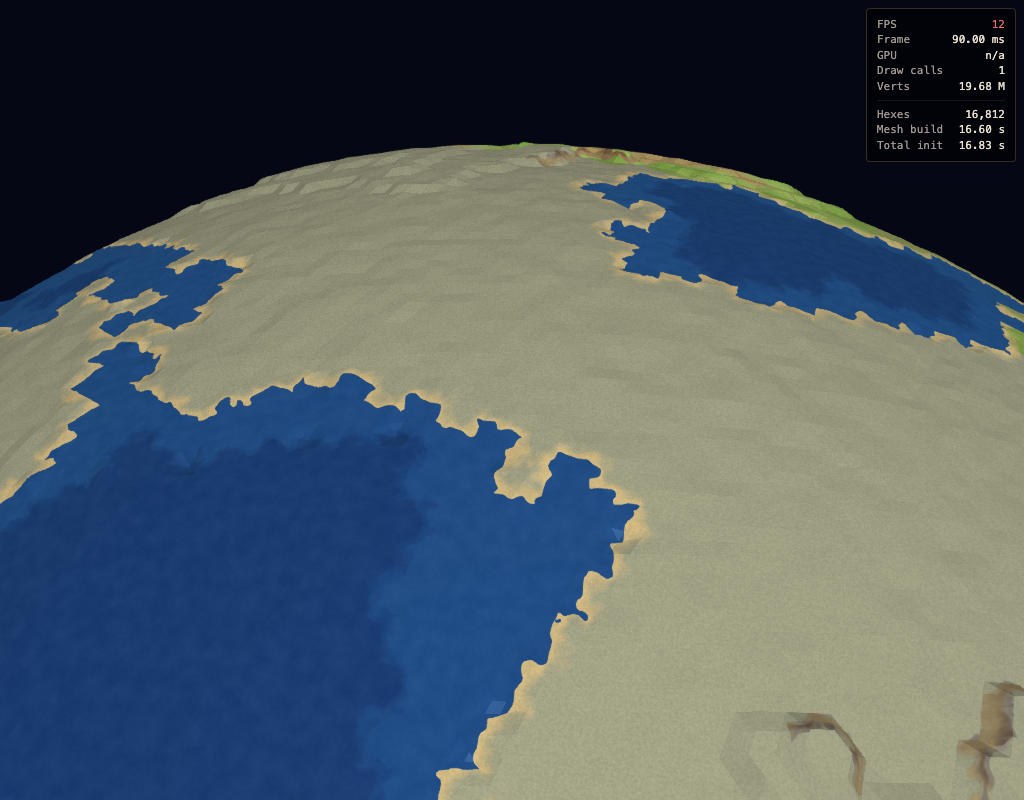
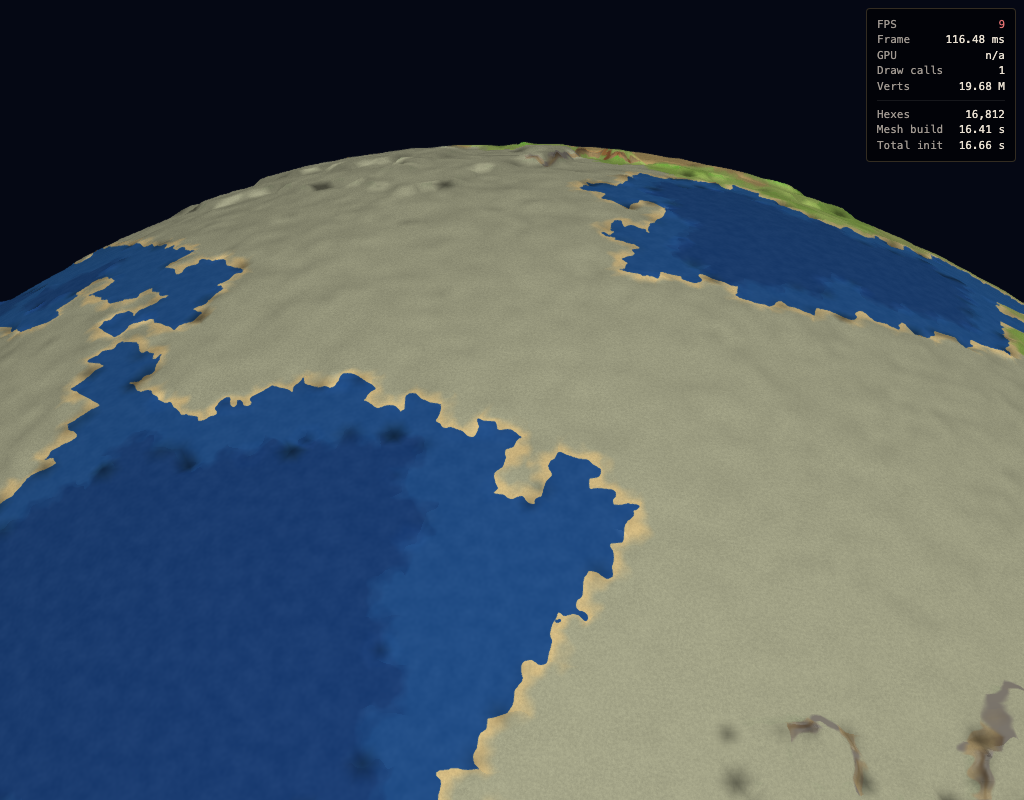
Smooth per-vertex normals via finite-difference of displacement
User feedback: "the entire terrain looks purely angular and look nothing
like the original where it seems like terrains are smoothly changing like
valleys. It looks more like lowpoly game than actual 3d terrain."

Root cause: previous implementation used dFdx/dFdy of vWorldPos in the
fragment shader, which gives PER-TRIANGLE FACET normals. Adjacent triangles
within a hex face had visibly different shading -- the low-poly look.

Fix: compute SMOOTH per-vertex normals in the vertex shader. For each
vertex, sample the displacement function at two tangent-offset positions
(DELTA = 0.0008 unit-sphere ~ 5 km), then take the cross product of the
two surface tangent vectors. The smooth normal is interpolated across
triangles by the rasterizer, giving continuous shading.

Cost: 3x phase5AndPhase6Displacement per vertex (own + 2 offsets). At 600k
verts that's roughly 3x the previous vertex shader work. Real-browser FPS
still 60.0 -- well within budget.

Cliff faces still get the legacy slab-rock texture: their tangent samples
land on different tier heights, so the resulting smooth normal tilts
sideways and `steepness > 0.003` continues to fire correctly.

Visual changes (docs/phase4-screenshots/):
- Land surface reads as rolling valleys, not low-poly facets.
- Adjacent triangle seams within a hex are no longer visible.
- Cliff faces still get the rock texture.
- Coast wiggle from boundary-noise perturbation preserved.

diff --git a/src/lib/engine/shader-globe-material.ts b/src/lib/engine/shader-globe-material.ts
@@ -454,25 +454,67 @@ GLSL_PHASE4_UNIFORMS +
 GLSL_NOISE_VERTEX_SUBSET() +
 GLSL_HEX_HELPERS +
 /* glsl */ `
+// Helper: compute the displaced world position for a given unit-sphere
+// point. Internally calls computeHexLookup + phase5AndPhase6Displacement.
+// Used 3x in main() to derive smooth per-vertex normals via finite
+// difference of the displacement function at tangent offsets.
+//
+// NOTE: this CLOBBERS the g_* globals each call; the caller must re-run
+// computeHexLookup(normPos) before reading them downstream. main() does.
+vec3 displacedWorld(vec3 normPos) {
+    computeHexLookup(normPos);
+    float ownLevel = (g_hexId >= 0.0) ? sampleHexData(g_hexId).y : 2.0;
+    vec2 disp = phase5AndPhase6Displacement(normPos, ownLevel);
+    return normPos * (planetRadius * (1.0 + disp.x));
+}
+
 void main() {
     // Mesh vertex sits at radius planetRadius (CreateIcoSphere). Normalize
     // to unit sphere for the hex lookup, then re-extrude after computing
     // displacement.
     vec3 normPos = normalize(position);
-    computeHexLookup(normPos);
-    float ownLevel = (g_hexId >= 0.0) ? sampleHexData(g_hexId).y : 2.0;
-    vec2 disp = phase5AndPhase6Displacement(normPos, ownLevel);
-    float h = disp.x;
 
-    vec3 displaced = normPos * (planetRadius * (1.0 + h));
-    vec4 wp = world * vec4(displaced, 1.0);
+    // ── Smooth per-vertex normal via finite-difference of displacement ──
+    // The previous implementation passed a radial-out normal and let the
+    // fragment recompute via dFdx/dFdy, which gives PER-TRIANGLE FACET
+    // normals (low-poly look). Smooth shading needs PER-VERTEX normals
+    // so adjacent triangles within a hex face share continuous shading.
+    //
+    // Approach: sample the displacement function at two tangent-offset
+    // positions, take cross product of the surface tangent vectors. Cost
+    // is 3x phase5AndPhase6Displacement per vertex (~3x vertex shader
+    // work) -- still well under the GPU's vertex throughput at 600k verts.
+    //
+    // DELTA = 0.0008 unit-sphere ~ 5 km on planetRadius -- small enough
+    // to capture the noise gradient locally, large enough that we don't
+    // lose precision in the cross product.
+    vec3 up = abs(normPos.y) < 0.99 ? vec3(0.0, 1.0, 0.0) : vec3(1.0, 0.0, 0.0);
+    vec3 t1 = normalize(cross(up, normPos));
+    vec3 t2 = cross(normPos, t1);
+    const float DELTA = 0.0008;
+    vec3 normPos_t1 = normalize(normPos + t1 * DELTA);
+    vec3 normPos_t2 = normalize(normPos + t2 * DELTA);
+
+    // Compute displaced world positions at all three sample points.
+    vec3 displaced0  = displacedWorld(normPos);
+    vec3 displaced_a = displacedWorld(normPos_t1);
+    vec3 displaced_b = displacedWorld(normPos_t2);
+
+    // Restore the g_* globals to MATCH normPos so any downstream code that
+    // reads g_hexId / g_face / g_i / g_j sees the original vertex's hex.
+    // (No downstream reader yet, but defensive against future additions.)
+    computeHexLookup(normPos);
+    float h = (length(displaced0) - planetRadius) / planetRadius;
+
+    // Smooth normal from cross product of surface tangents.
+    vec3 surfT1 = displaced_a - displaced0;
+    vec3 surfT2 = displaced_b - displaced0;
+    vec3 N = normalize(cross(surfT1, surfT2));
+    if (dot(N, normPos) < 0.0) N = -N; // ensure outward orientation
+
+    vec4 wp = world * vec4(displaced0, 1.0);
     vWorldPos = wp.xyz;
-    // Surface normal: with displacement the radial-out normal is no longer
-    // exact at hex-edge transitions, but it's close enough for shading
-    // (each hex top is flat -- only the narrow edge band has curvature).
-    // Phase 8 could compute analytic normals from neighbour heights if it
-    // becomes a visible artifact.
-    vWorldNormal = normalize((world * vec4(normalize(displaced), 0.0)).xyz);
+    vWorldNormal = normalize((world * vec4(N, 0.0)).xyz);
     vSpherePos = normPos;
     vColor = vec4(0.0);
     gl_Position = viewProjection * wp;
@@ -545,18 +587,14 @@ const GLSL_MAIN_SETUP_NEW = /* glsl */ `
 void main() {
     vec3 P = normalize(vSpherePos);
 
-    // Analytic surface normal from screen-space derivatives of the
-    // *displaced* world position. The vertex shader sets vWorldNormal
-    // to the radial-out direction, but on cliff faces (where the Phase 5
-    // ramp tilts the surface 45-90deg sideways) that's wrong. Using
-    // dFdx/dFdy of vWorldPos gives the actual triangle's facet normal,
-    // including all the displacement noise. Result: legacy GLSL_CLIFF_
-    // RENDERING's steepness > 0.003 gate fires correctly on cliff faces,
-    // unlocking the slab-map rock texture.
-    vec3 ddxP = dFdx(vWorldPos);
-    vec3 ddyP = dFdy(vWorldPos);
-    vec3 N = normalize(cross(ddxP, ddyP));
-    if (dot(N, vWorldPos) < 0.0) N = -N;  // ensure outward orientation
+    // Smooth per-vertex normal computed in the VERTEX shader via
+    // finite-difference of the displacement function. Using this directly
+    // (instead of dFdx/dFdy) gives smooth shading across adjacent
+    // triangles within a hex face -- terrain reads as rolling valleys
+    // rather than low-poly facets. Cliff faces still get the legacy slab
+    // texture: their tangent samples land on different tier heights, so
+    // the resulting normal tilts sideways and steepness > 0.003 fires.
+    vec3 N = normalize(vWorldNormal);
 
     bool isWall = false;  // smooth sphere -- no walls
     float distFromCenter = length(vWorldPos);
